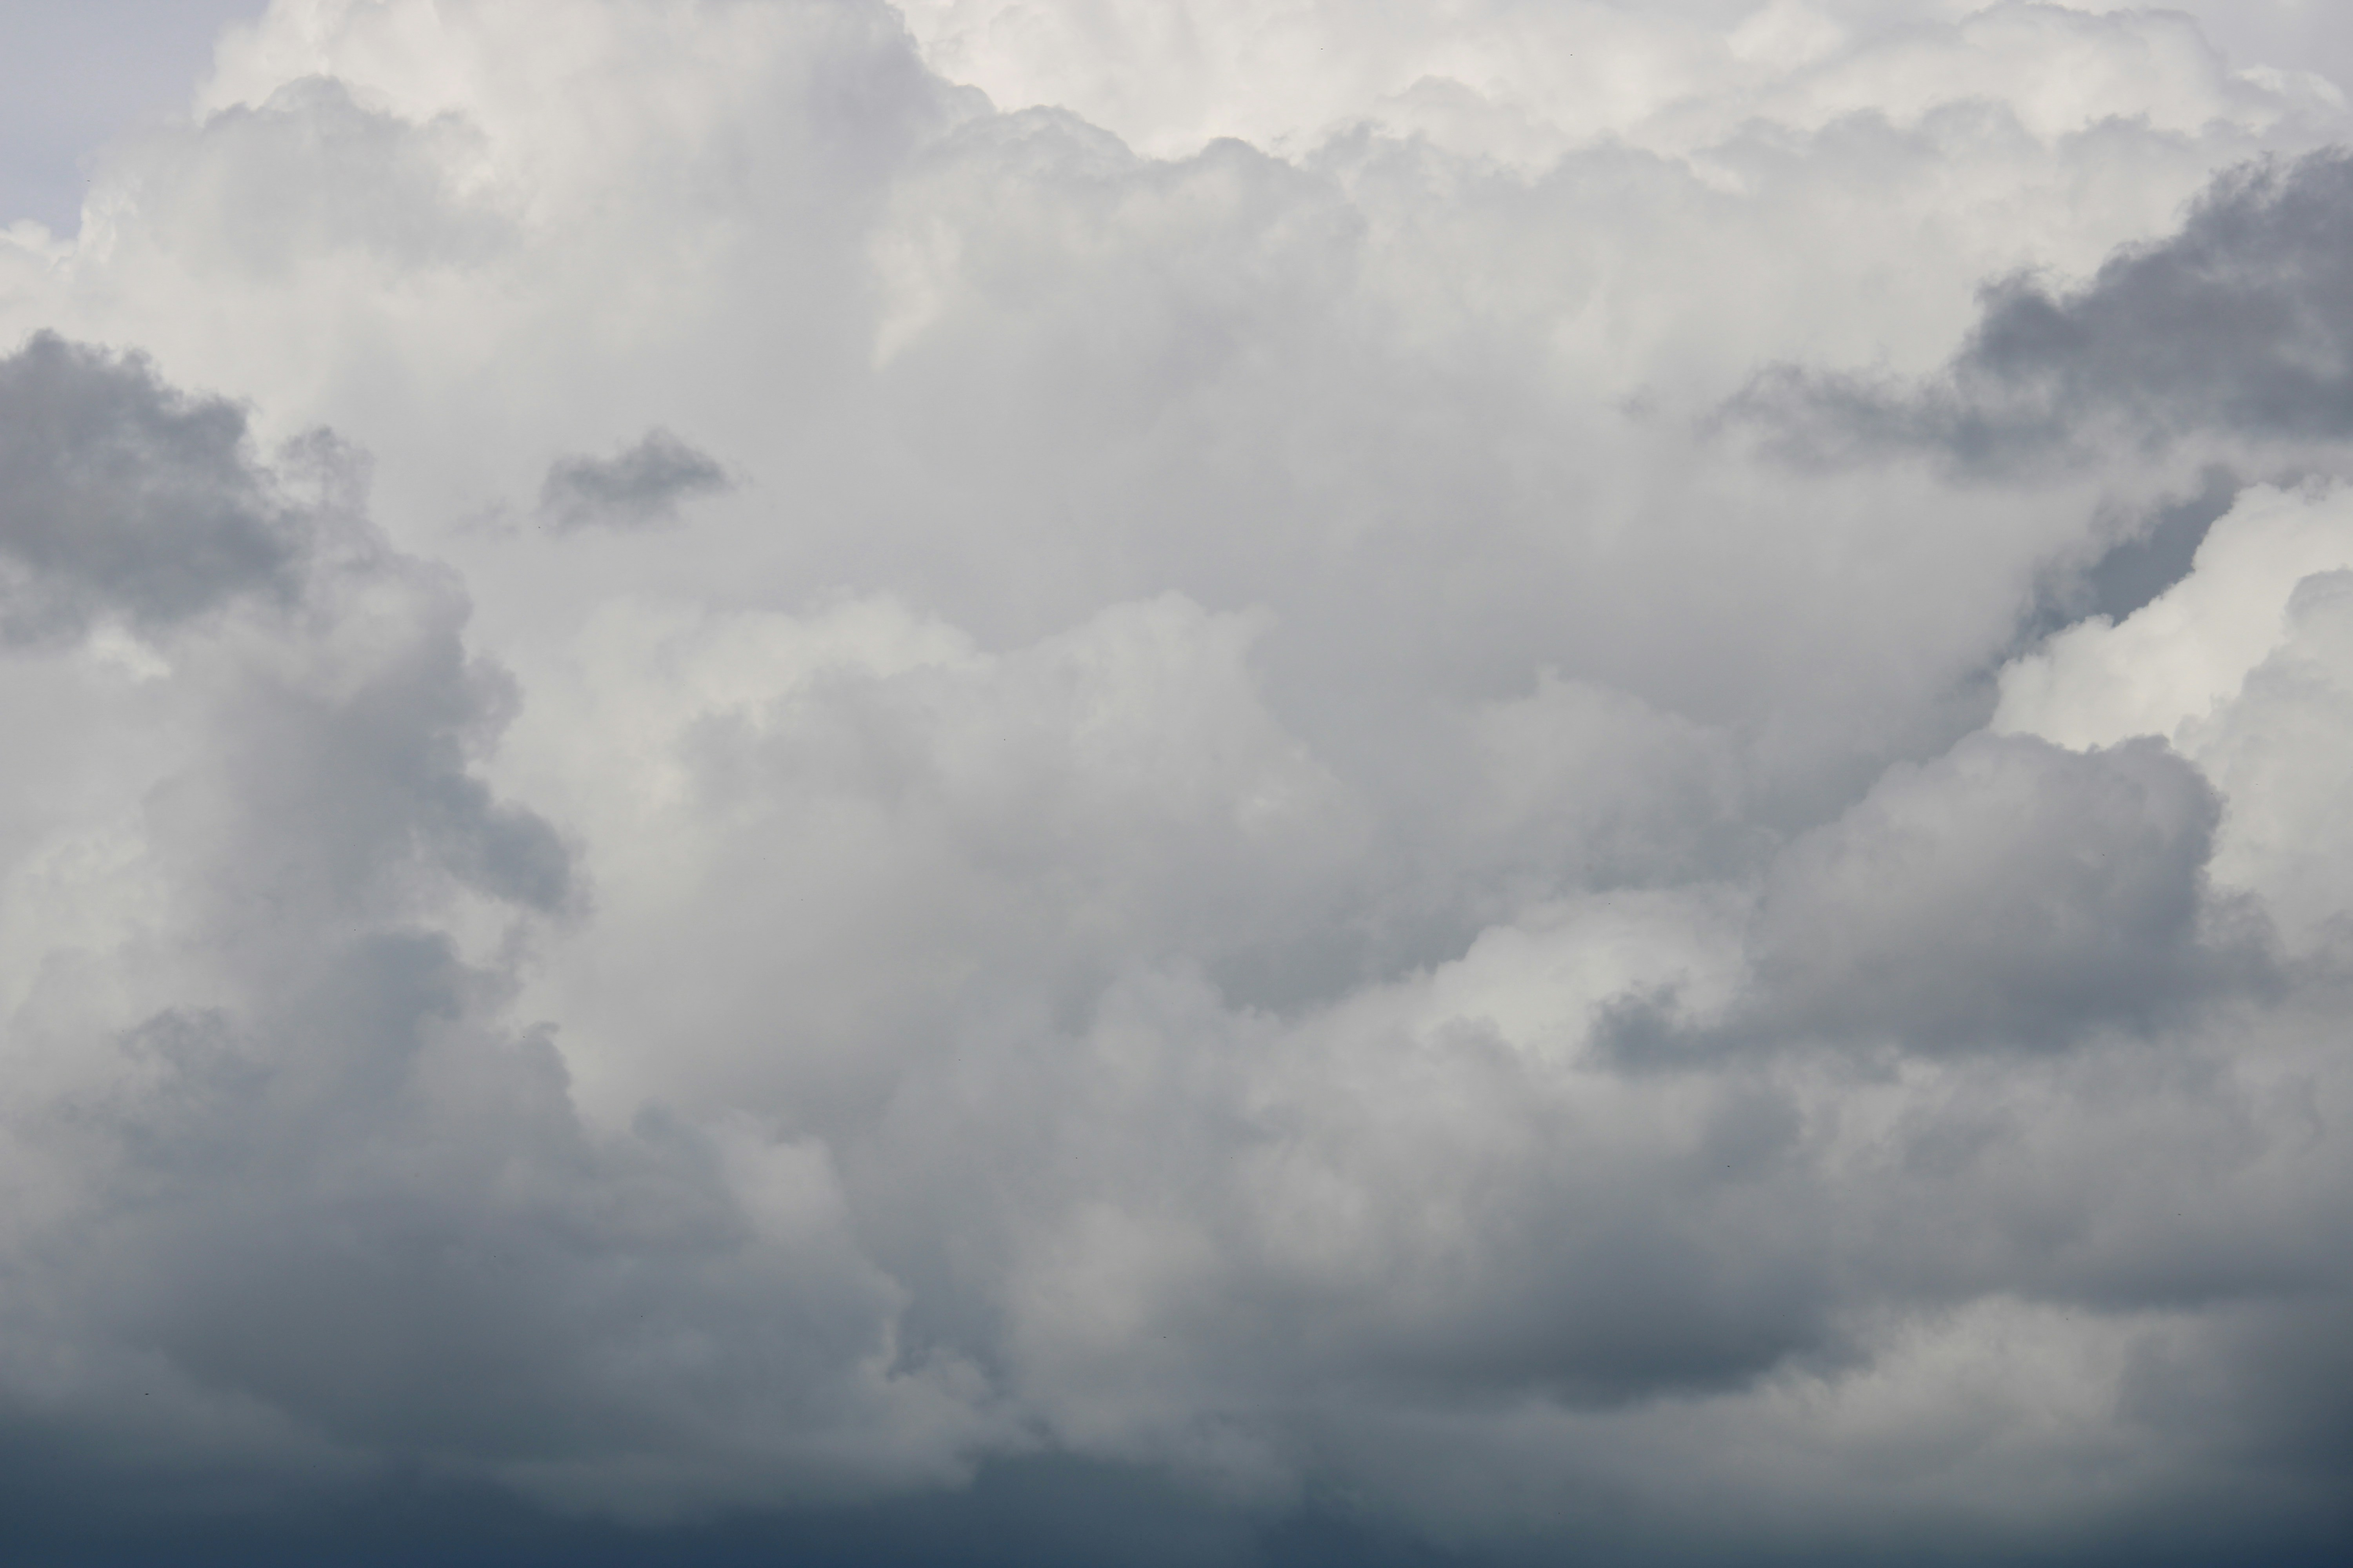
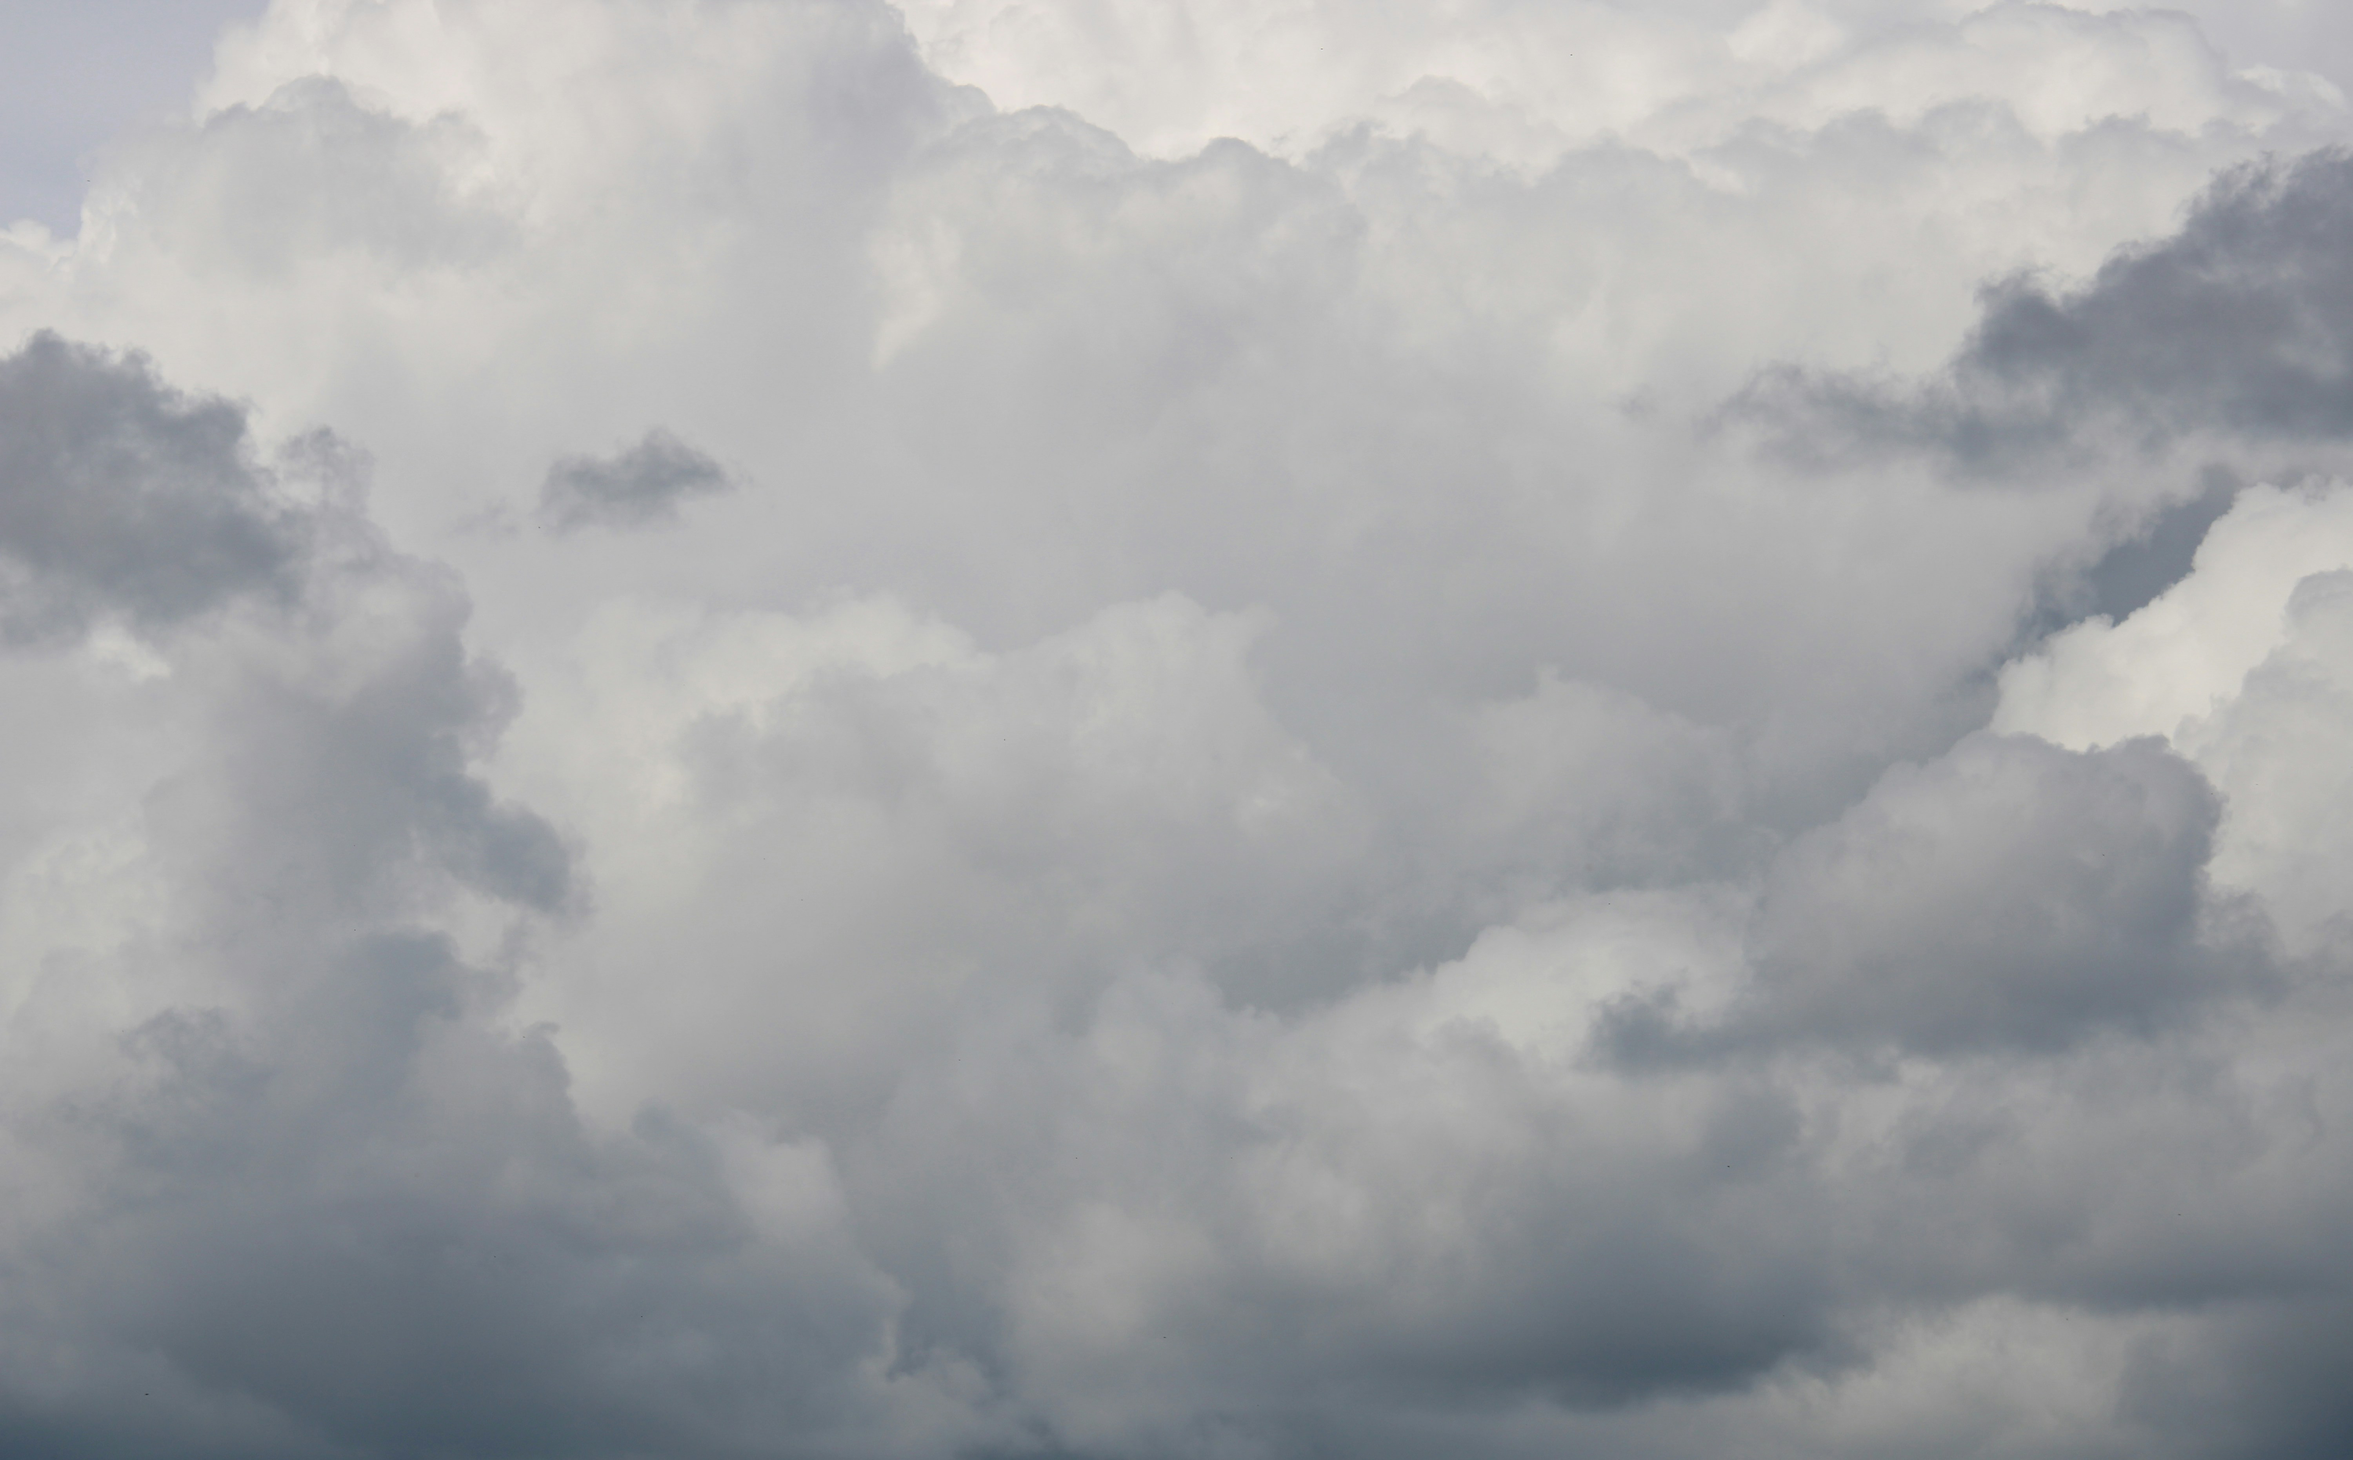
Add Current view background weather images

diff --git a/WeatherApp/Helpers/WeatherHelper.cs b/WeatherApp/Helpers/WeatherHelper.cs
@@ -177,18 +177,18 @@ namespace WeatherApp.Helpers
             { 56, new("cloud1", "rain-snow1") },
             { 57, new("cloud3", "rain-snow3") },
             { 61, new("cloud2", "rain1") },
-            { 63, new("cloud2", "rain2") },
+            { 63, new("cloud3", "rain2") },
             { 65, new("cloud3", "rain3") },
             { 66, new("cloud2", "rain-snow1") },
             { 67, new("cloud3", "rain-snow3") },
-            { 71, new("cloud1", "snow1") },
+            { 71, new("cloud2", "snow1") },
             { 73, new("cloud2", "snow2") },
             { 75, new("cloud3", "snow3") },
             { 77, new("cloud3", "hail2") },
             { 80, new("cloud2", "rain2") },
-            { 81, new("cloud2", "rain2") },
+            { 81, new("cloud3", "rain2") },
             { 82, new("cloud3", "rain3") },
-            { 85, new("cloud1", "snow1") },
+            { 85, new("cloud2", "snow1") },
             { 86, new("cloud3", "snow3") },
             { 95, new("cloud3", "storm") },
             { 96, new("cloud3", "hail1") },
@@ -204,23 +204,23 @@ namespace WeatherApp.Helpers
             { 45, "fog" },
             { 48, "fog" },
             { 51, "cloud1-rain1" },
-            { 53, "cloud1-rain1" },
+            { 53, "cloud2-rain1" },
             { 55, "cloud2-rain2" },
             { 56, "cloud1-rain1" },
             { 57, "cloud3-rain2" },
             { 61, "cloud2-rain1" },
-            { 63, "cloud2-rain1" },
+            { 63, "cloud3-rain1" },
             { 65, "cloud3-rain2" },
             { 66, "cloud2-rain1" },
             { 67, "cloud3-rain2" },
-            { 71, "cloud1-snow1" },
-            { 73, "cloud2-snow1" },
+            { 71, "cloud2-snow1" },
+            { 73, "cloud3-snow1" },
             { 75, "cloud3-snow2" },
             { 77, "cloud3-hail1" },
             { 80, "cloud2-rain2" },
             { 81, "cloud2-rain2" },
             { 82, "cloud3-rain3" },
-            { 85, "cloud1-snow1" },
+            { 85, "cloud2-snow1" },
             { 86, "cloud3-snow2" },
             { 95, "cloud3-storm1" },
             { 96, "cloud3-hail1" },
